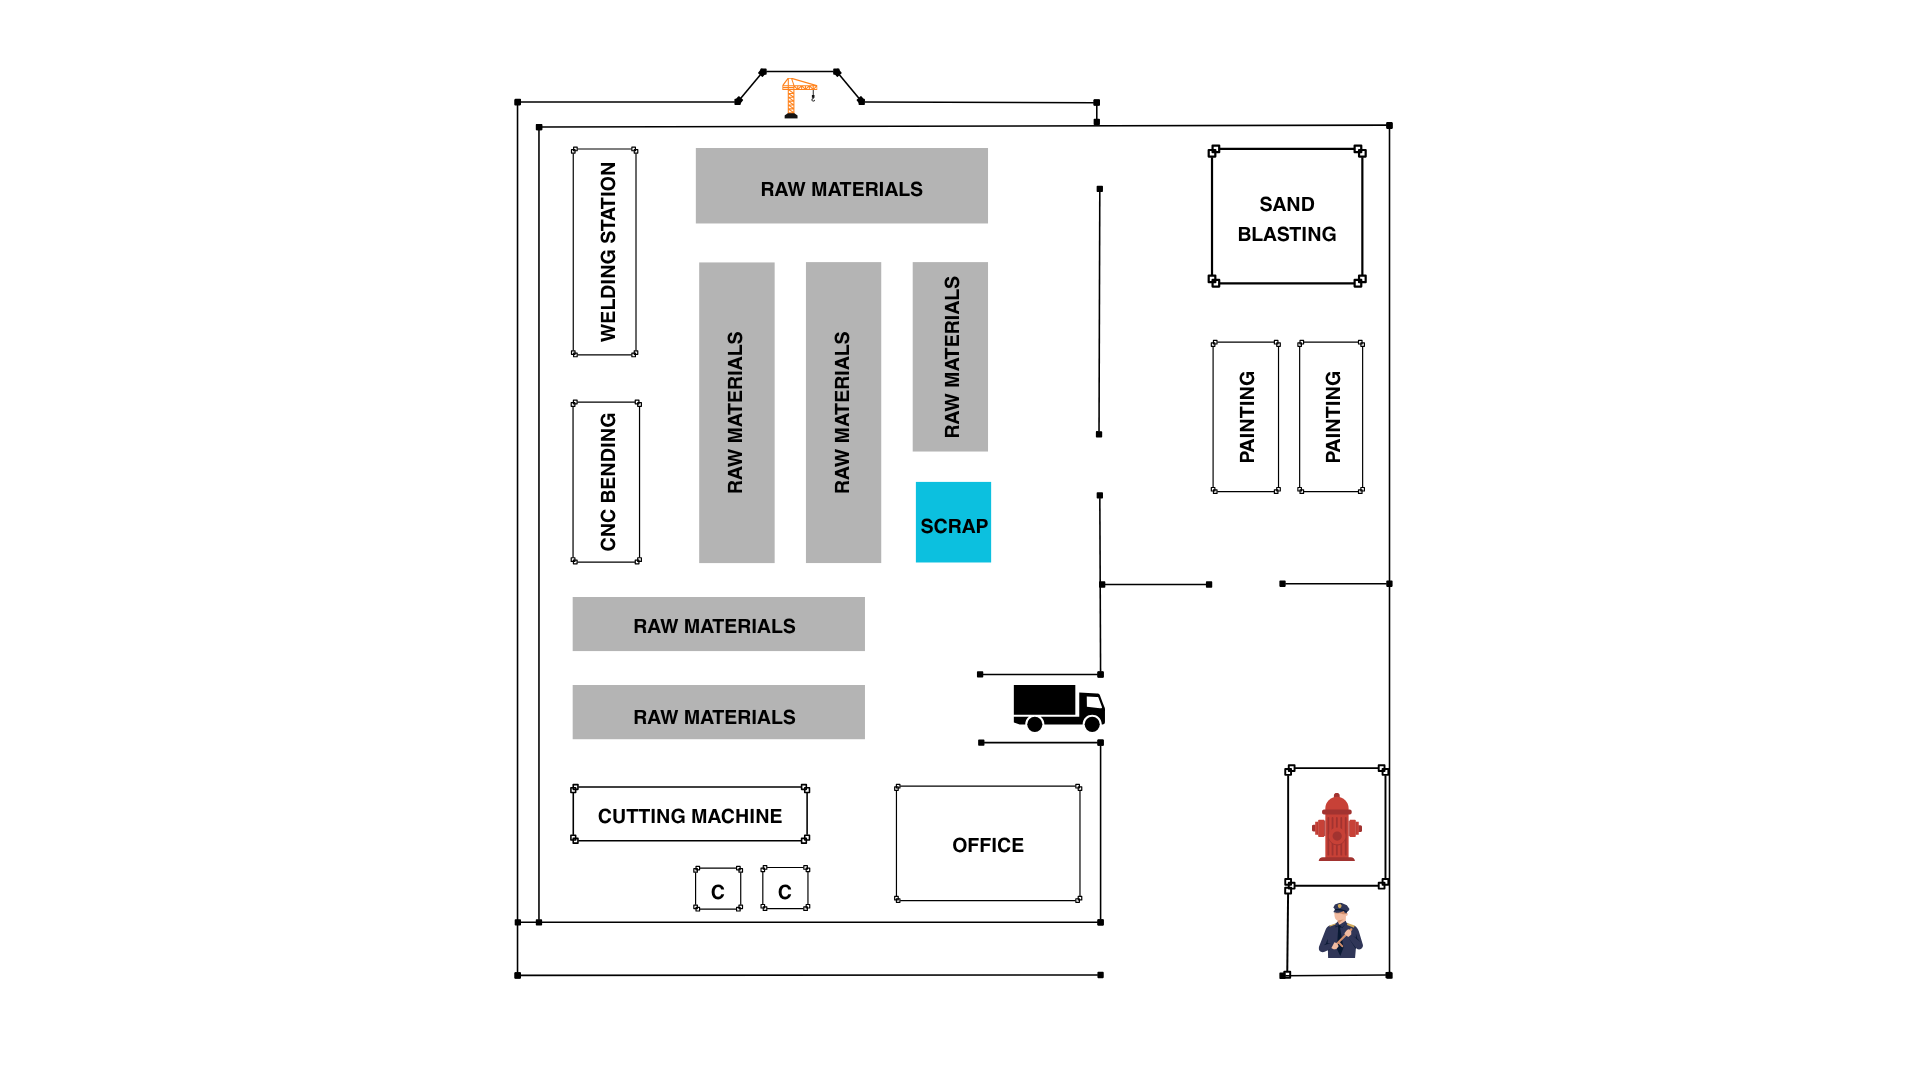
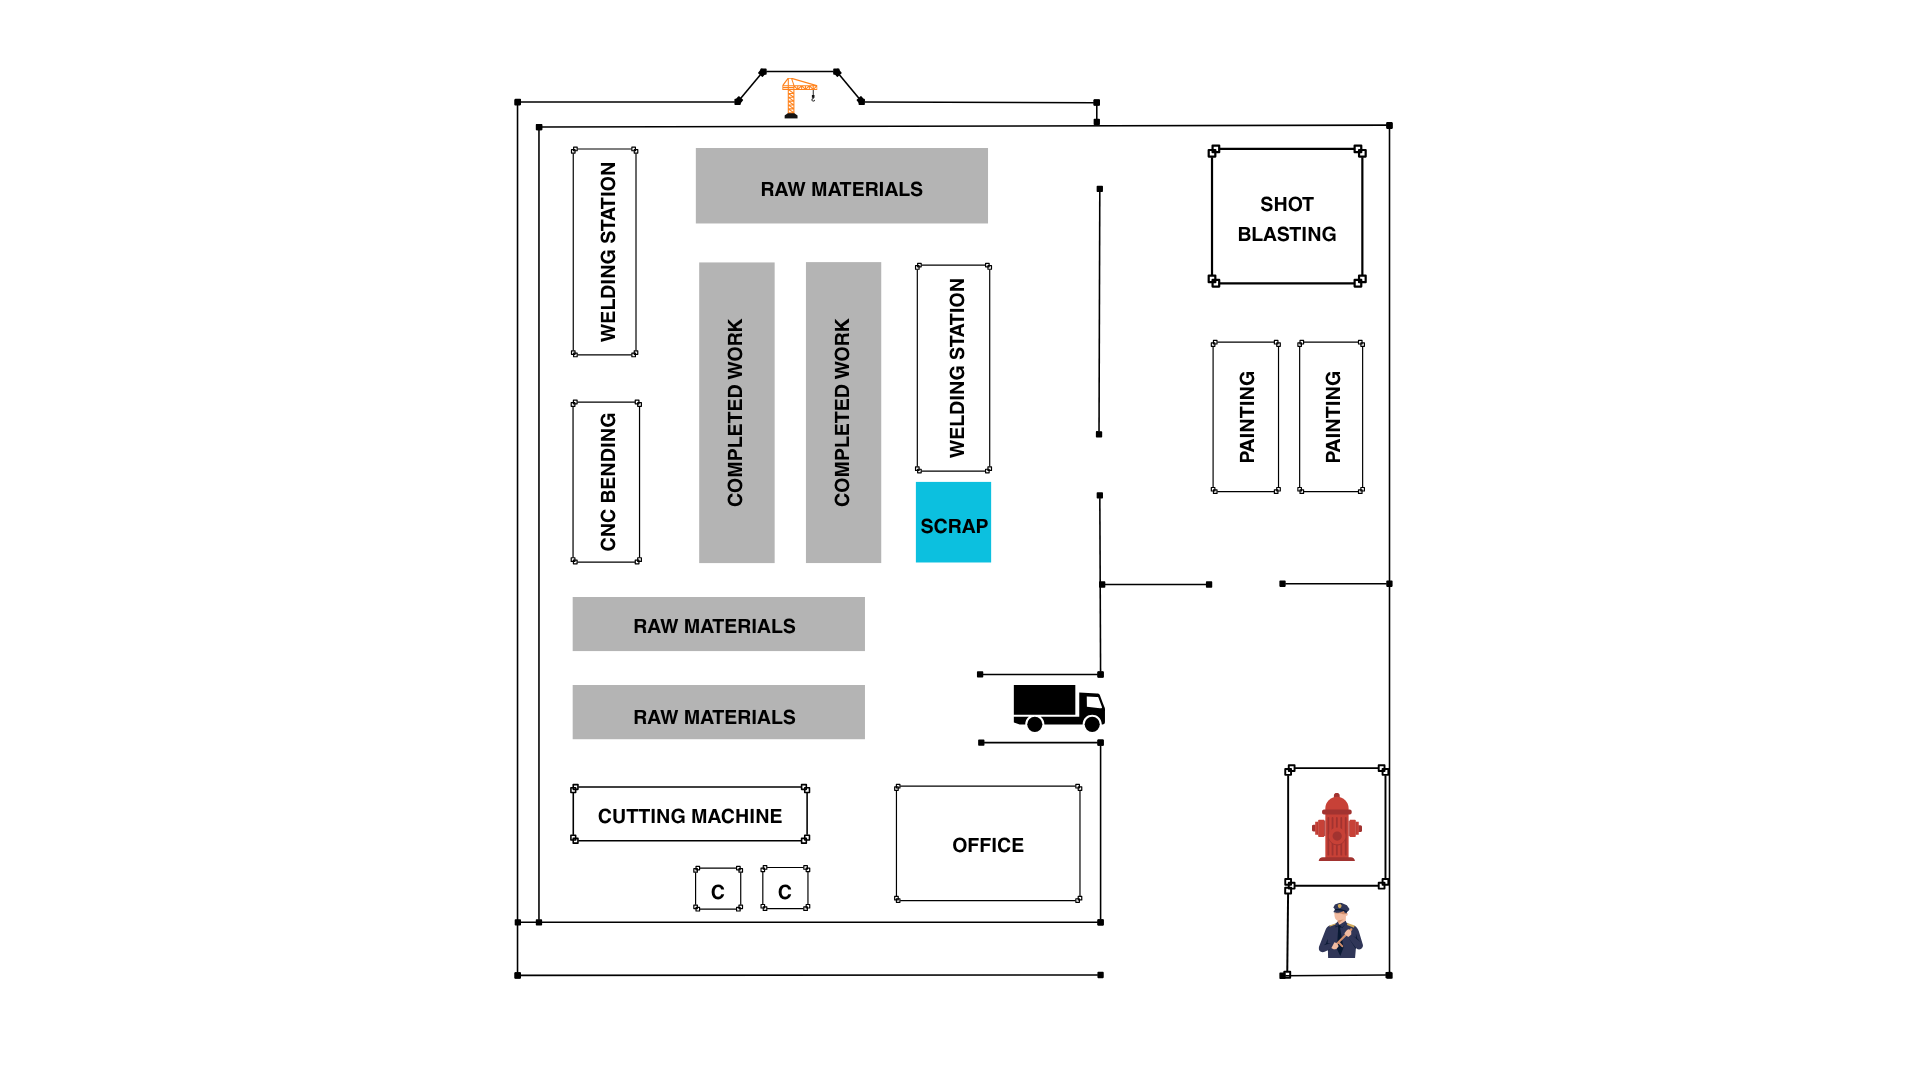
more changes - shot blasting, video correction, layout update

Changed region(s): [[0.4375, 0.2444, 0.5312, 0.4583], [0.375, 0.3056, 0.4062, 0.4583], [0.6562, 0.1833, 0.6875, 0.2139]]

diff --git a/frontend/src/pages/Infrastructure.jsx b/frontend/src/pages/Infrastructure.jsx
@@ -33,6 +33,7 @@ import Raw2 from '../assets/infrastructurePhotoes/Raw2.jpeg';
 import SandBlasting1 from '../assets/infrastructurePhotoes/SandBlasting1.jpeg';
 import SandBlasting2 from '../assets/infrastructurePhotoes/SandBlasting2.jpeg';
 import SandBlasting3 from '../assets/infrastructurePhotoes/SandBlasting3.jpeg';
+import SandBlasting4 from '../assets/infrastructurePhotoes/SandBlasting4.png';
 import Scrap1 from '../assets/infrastructurePhotoes/Scrap1.jpeg';
 import Scrap2 from '../assets/infrastructurePhotoes/Scrap2.jpeg';
 import Crane from '../assets/infrastructurePhotoes/Crane.png';
@@ -426,9 +427,9 @@ const Infrastructure = () => {
     },
 
     {
-      id: "raw-material-left",
-      name: "Raw Materials",
-      image: Raw2,
+      id: "complete-work-left",
+      name: "Complete Work",
+      image: CompleteWork1,
       position: {
         top: "24%",
         left: "36.5%",
@@ -438,9 +439,9 @@ const Infrastructure = () => {
     },
 
     {
-      id: "raw-material-center",
-      name: "Raw Materials",
-      image: Raw1,
+      id: "complete-work-center",
+      name: "Complete Work",
+      image: CompleteWork3,
       position: {
         top: "24%",
         left: "42.1%",
@@ -450,21 +451,21 @@ const Infrastructure = () => {
     },
 
     {
-      id: "raw-material-right",
-      name: "Raw Materials",
-      image: Raw2,
+      id: "welding-station-right",
+      name: "Welding Station",
+      image: Welding,
       position: {
         top: "24%",
         left: "47.6%",
         width: "4%",
-        height: "18.5%"
+        height: "19.6%"
       }
     },
 
     {
       id: "raw-material-bottom",
       name: "Raw Materials",
-      image: CompleteWork2,
+      image: Raw1,
       position: {
         top: "55%",
         left: "29.7%",
@@ -476,7 +477,7 @@ const Infrastructure = () => {
     {
       id: "raw-material-bottom-bottom",
       name: "Raw Materials",
-      image: CompleteWork3,
+      image: Raw2,
       position: {
         top: "63%",
         left: "29.7%",
@@ -500,9 +501,9 @@ const Infrastructure = () => {
     },
 
     {
-      id: "sand-blasting",
-      name: "Sand Blasting",
-      image: SandBlasting1,
+      id: "shot-blasting",
+      name: "Shot Blasting",
+      image: SandBlasting4,
       description:
         "Controlled surface treatment facility ensuring thorough rust removal and superior surface quality prior to painting.",
       position: {
@@ -536,7 +537,7 @@ const Infrastructure = () => {
       position: {
         top: "31%",
         left: "67.5%",
-        width: "4%",
+        width: "3.7%",
         height: "15%",
       },
     },

diff --git a/frontend/src/App.jsx b/frontend/src/App.jsx
@@ -15,7 +15,7 @@ import Infrastructure from './pages/Infrastructure';
 import Quality from './pages/Quality';
 import Contact from './pages/Contact';
 import Quote from './pages/Quote';
-import Gallery from './pages/Gallery';
+
 import Projects from './pages/Projects';
 import Careers from './pages/Careers';
 import Certifications from './pages/Certifications';
@@ -48,7 +48,7 @@ function App() {
               <Route path="/contact" element={<Contact />} />
               <Route path="/contact-us" element={<Contact />} />
               <Route path="/quote" element={<Quote />} />
-              <Route path="/gallery" element={<Gallery />} />
+
               <Route path="/projects" element={<Projects />} />
               <Route path="/careers" element={<Careers />} />
               <Route path="/certifications" element={<Certifications />} />

diff --git a/frontend/src/components/ServiceDetail.jsx b/frontend/src/components/ServiceDetail.jsx
@@ -920,12 +920,12 @@ const serviceData = {
     title: 'Metal Surface Treatment',
     subtitle: 'Advanced Surface Enhancement Technology',
     tagline: 'Surface Protection & Treatment',
-    description: 'Professional surface treatment services including sand blasting, rust removal, polishing, and chemical treatment for industrial components.',
+    description: 'Professional surface treatment services including shot blasting, rust removal, polishing, and chemical treatment for industrial components.',
     heroImage: SandBlasting1,
     model: '/models/surface-treatment-machine.glb',
 
     features: [
-      'Sand blasting',
+      'Shot blasting',
       'Rust removal',
       'Chemical treatment',
       'Surface polishing',

diff --git a/frontend/src/components/Layout/Navbar.jsx b/frontend/src/components/Layout/Navbar.jsx
@@ -40,13 +40,7 @@ const Navbar = () => {
     },
     { name: 'Services', path: '/services' },
     { name: 'Products', path: '/products' },
-    { 
-      name: 'Portfolio', 
-      dropdown: [
-        { name: 'Projects', path: '/projects' },
-        { name: 'Gallery', path: '/gallery' }
-      ]
-    },
+    { name: 'Projects', path: '/projects' },
     { name: 'Careers', path: '/careers' },
     { name: 'Contact', path: '/contact' },
   ];

diff --git a/frontend/src/components/Layout/Footer.jsx b/frontend/src/components/Layout/Footer.jsx
@@ -82,7 +82,7 @@ const Footer = () => {
                 { name: 'Services', path: '/services' },
                 { name: 'Products', path: '/products' },
                 { name: 'Projects', path: '/projects' },
-                { name: 'Gallery', path: '/gallery' },
+
                 { name: 'Careers', path: '/careers' },
                 { name: 'Contact Us', path: '/contact' }
               ].map((link) => (

diff --git a/frontend/src/components/infrastructure/PlantLayout.jsx b/frontend/src/components/infrastructure/PlantLayout.jsx
@@ -41,7 +41,7 @@ const PlantLayout = ({ facilities }) => {
 
           {/* Map */}
           <div className="lg:col-span-2">
-            <div className="relative overflow-hidden rounded-2xl border border-[#2a2a2a] bg-[#171717] shadow-2xl">
+            <div className="relative  rounded-2xl border border-[#2a2a2a] bg-[#171717] shadow-2xl">
 
               {/* Plant Layout Image */}
               <img

diff --git a/frontend/src/pages/About.jsx b/frontend/src/pages/About.jsx
@@ -2,7 +2,7 @@ import React from 'react';
 import aboutBg from "../assets/aboutBg.jpeg";
 
 // IMPORT VIDEO
-const VIDEO = "https://res.cloudinary.com/dtwsq7gdq/video/upload/v1781679389/VIDEO_BG_tpxhoc.mp4";
+const VIDEO = "https://res.cloudinary.com/dtwsq7gdq/video/upload/v1781694341/0615_1_efaa1x.mp4";
 
 const About = () => {
   return (
